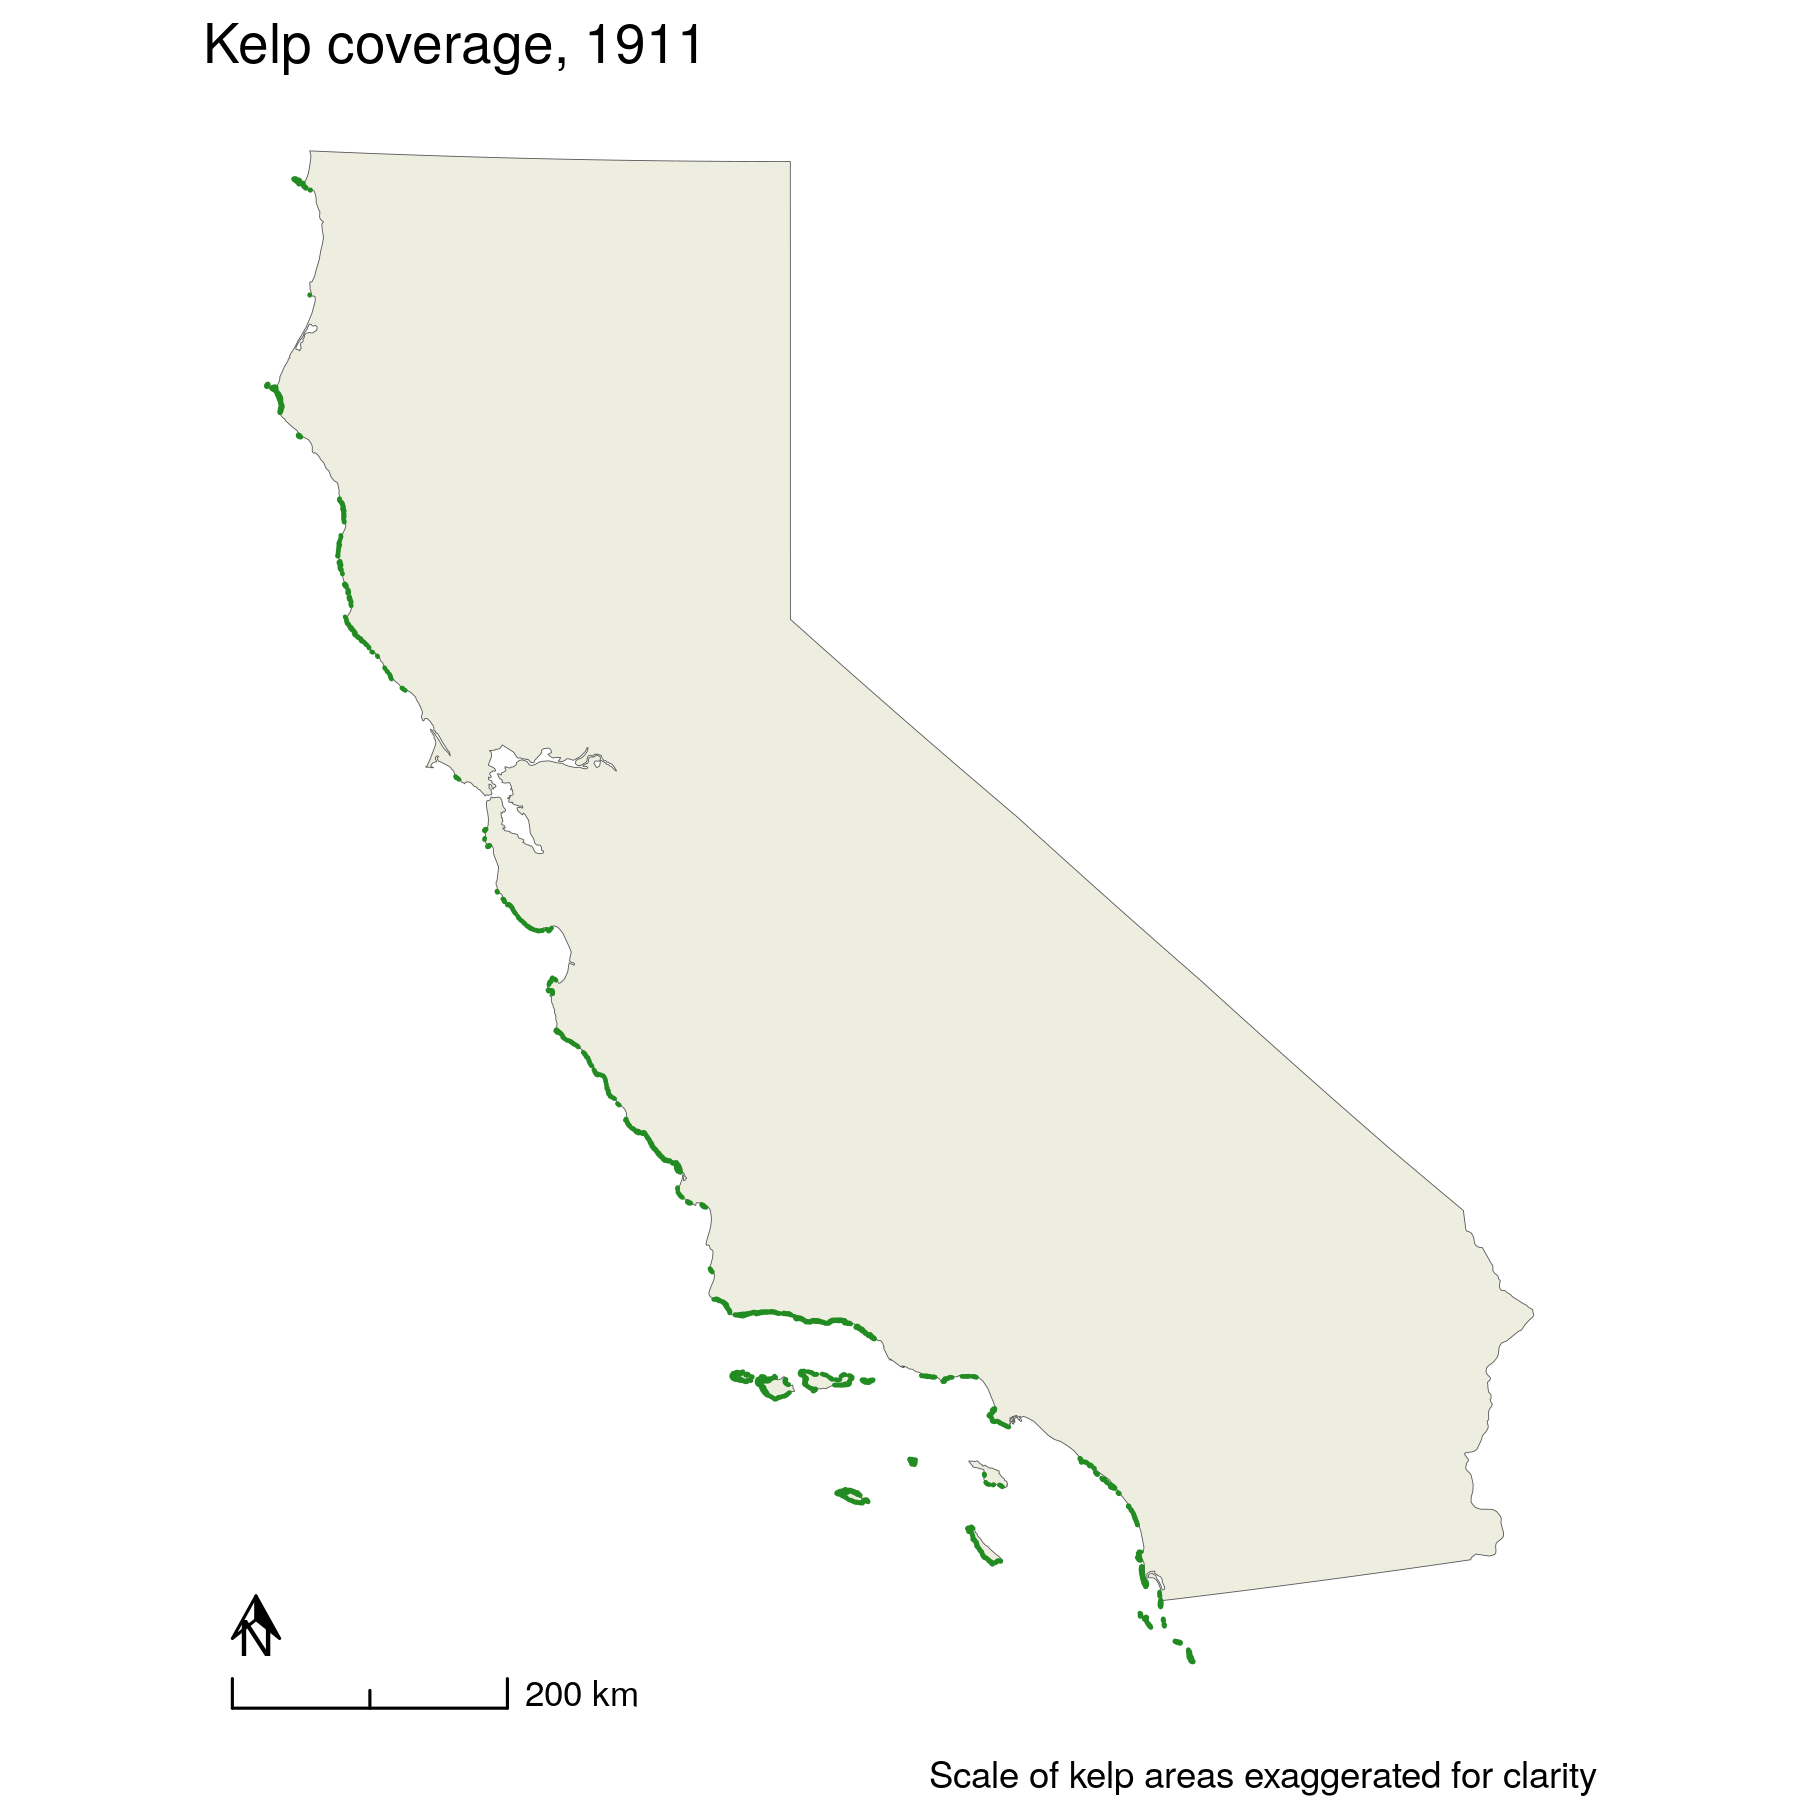
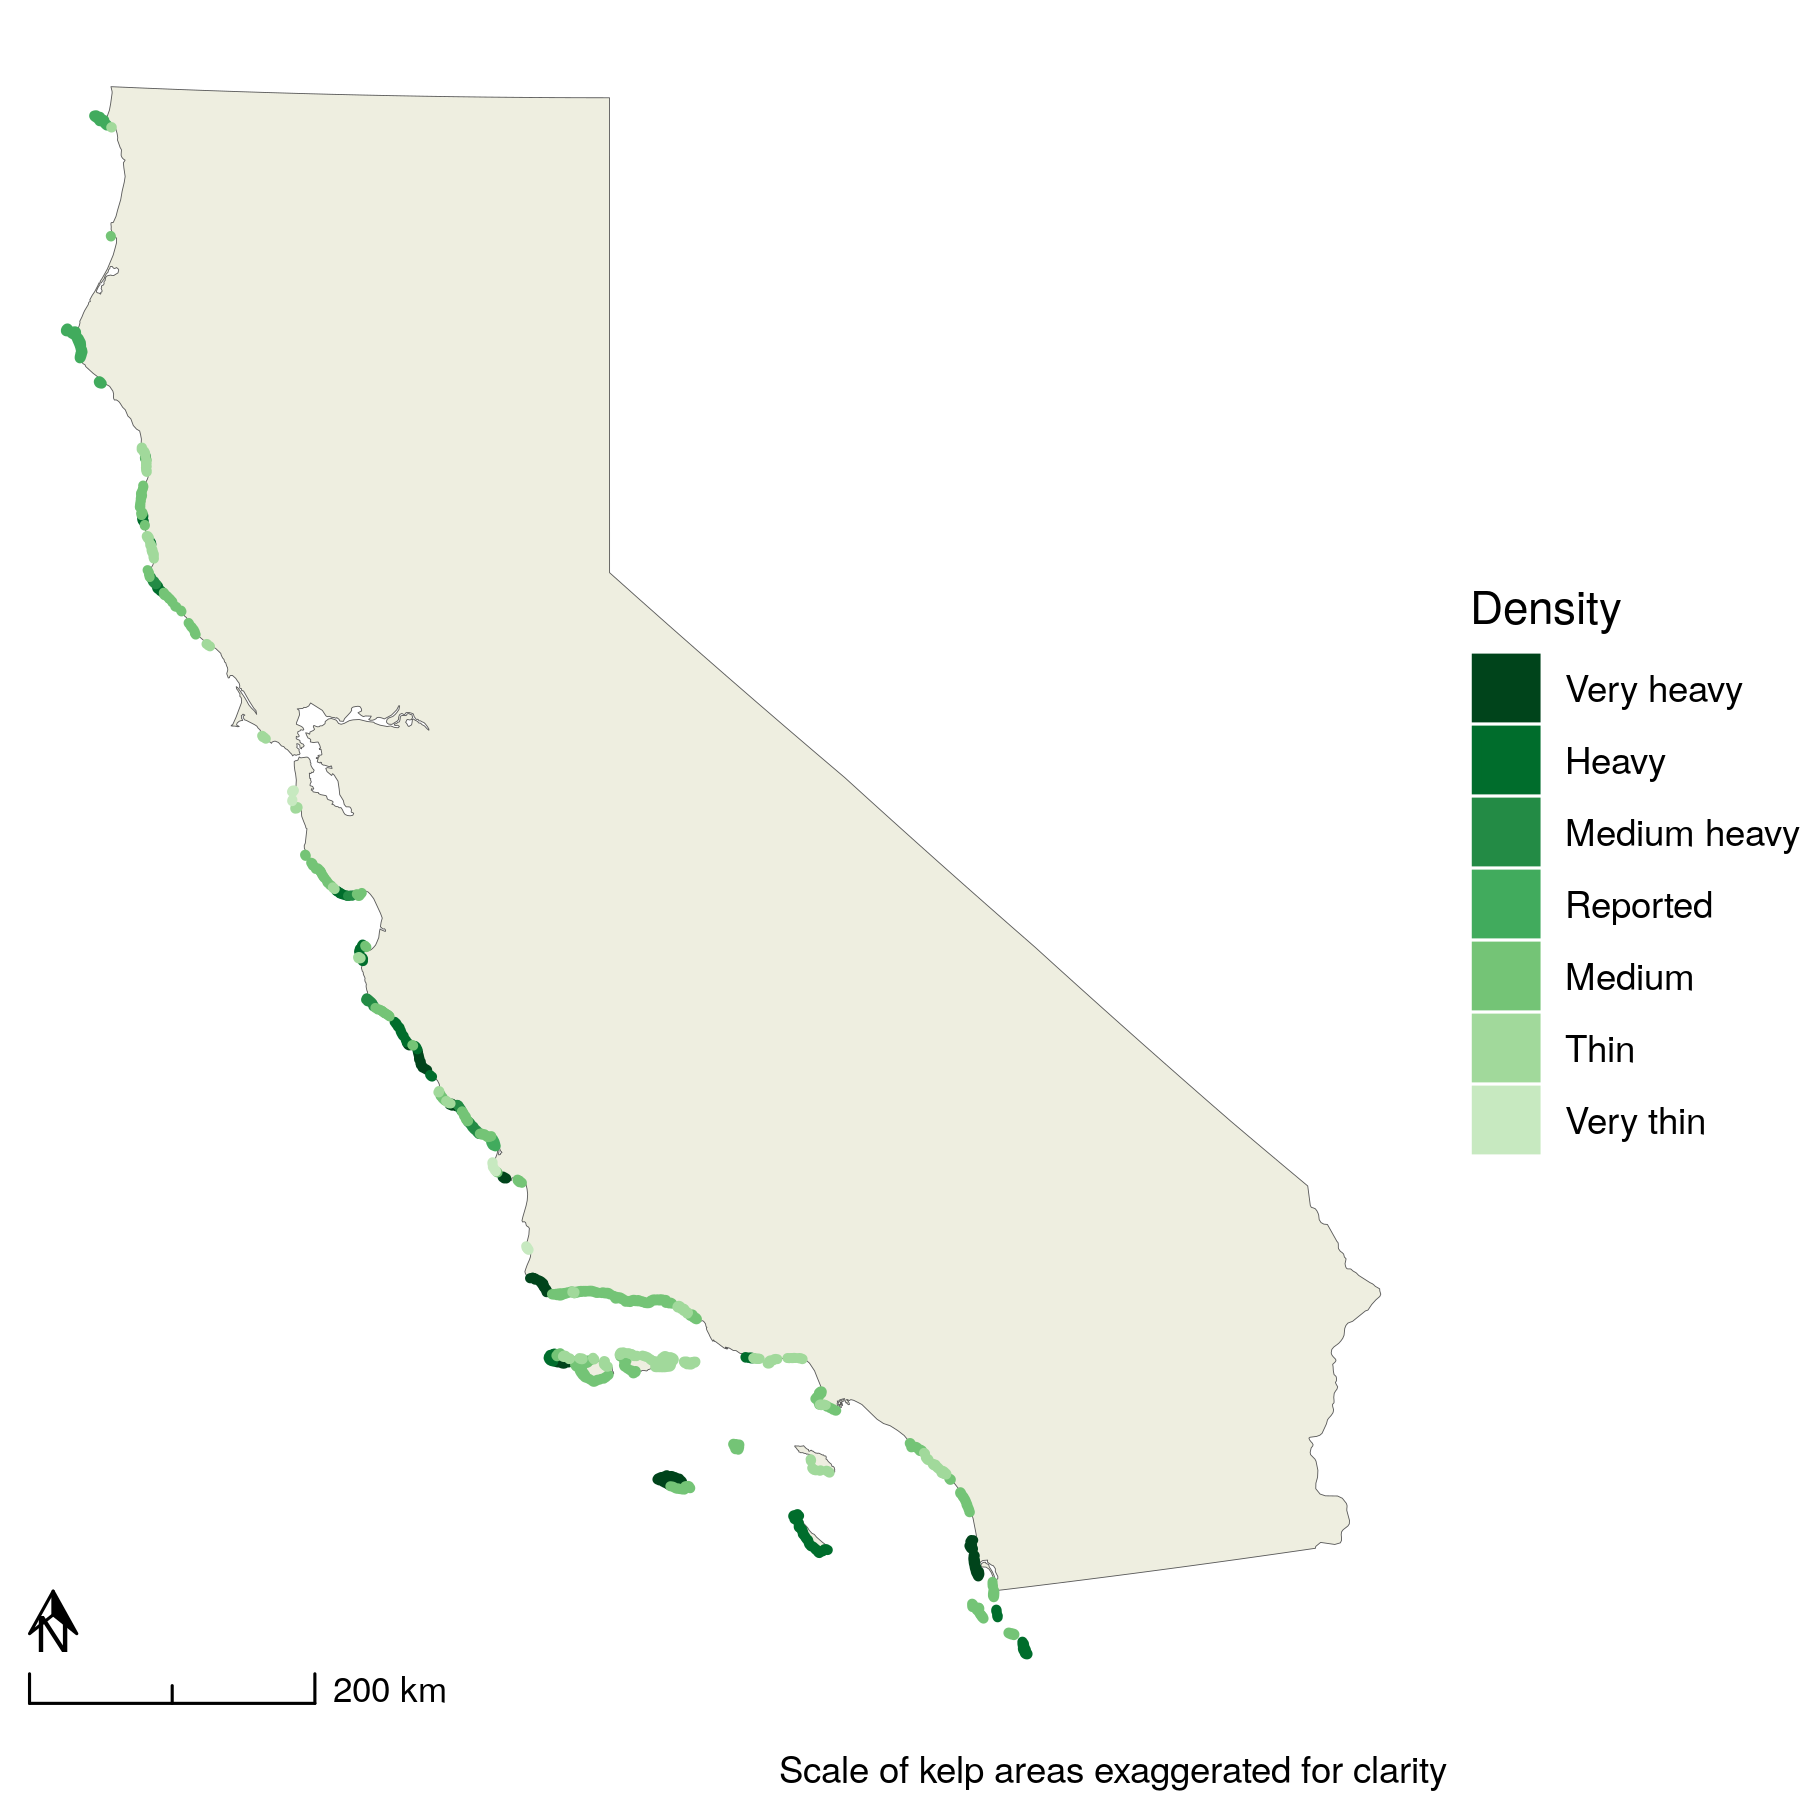
Generate weights for scaling area by density class; remake map with Reported class one tier up

diff --git a/code/02_calculate_kelp_area_changes.md b/code/02_calculate_kelp_area_changes.md
@@ -188,13 +188,12 @@ Save, so the segmentation code does not have to be run again.
 Comparisons of kelp area
 ========================
 
-Time series of total kelp area
-------------------------------
+Calculate total kelp area
+-------------------------
 
-Additionally, I need to do some wrangling of the column names in the
-CDFW data since the `area`, `length`, `class`, and `kelp_bed` (polygon
-id) variables have different names depending on the file you are looking
-at.
+I need to do some wrangling of the column names in the CDFW data since
+the `area`, `length`, `class`, and `kelp_bed` (polygon id) variables
+have different names depending on the file you are looking at.
 
     # Drop geometry and convert to data frame. Coalesce columns where needed
     kelp_current_df <- map(kelp_current_regions, st_drop_geometry) %>% 
@@ -209,6 +208,73 @@ at.
     kelp_current_df %>% map_dbl(~sum(is.na(.))) # Check for NAs
 
     kelp_historical_df <- st_drop_geometry(kelp_historical_regions)
+
+Because the methods for each data source differ (multispectral imagery
+vs. vessel-based visual surveys), the CDFW and Cameron (1915) data are
+liked biased in different directions. The CDFW data is comprised of many
+small, high-resolution polygons, whereas the historical data is
+compromised of polygons with very large areas and no holes. Therefore,
+the historical data likely overestimates the actual kelp canopy area
+since it is likely that density is heterogeneous within each polygon. We
+can adjust the area of the historical polygons based on Table XXI from
+Cameron (2015) which contains kelp weights per area for each density
+class. The values from the table are:
+
+<table>
+<thead>
+<tr class="header">
+<th>Density class</th>
+<th><em>Nereocystis</em></th>
+<th><em>Macrocystis</em></th>
+<th><em>Alaria fistulosa</em></th>
+</tr>
+</thead>
+<tbody>
+<tr class="odd">
+<td>Very thin</td>
+<td>55</td>
+<td>22</td>
+<td>2.8</td>
+</tr>
+<tr class="even">
+<td>Thin</td>
+<td>56-111</td>
+<td>23-34</td>
+<td>2.9-5.2</td>
+</tr>
+<tr class="odd">
+<td>Medium</td>
+<td>112-167</td>
+<td>35-44</td>
+<td>5.5-8.2</td>
+</tr>
+<tr class="even">
+<td>Medium heavy</td>
+<td>168-224</td>
+<td>45-54</td>
+<td>8.3-10.9</td>
+</tr>
+<tr class="odd">
+<td>Heavy</td>
+<td>225-280</td>
+<td>55-64</td>
+<td>11-13.6</td>
+</tr>
+<tr class="even">
+<td>Very Heavy</td>
+<td>281</td>
+<td>65</td>
+<td>13.7</td>
+</tr>
+</tbody>
+</table>
+
+For the purposes of this work, we will only consider *Nereocystis* and
+*Macrocystis*, since *A. fistulosa* is not distributed in California (is
+this right). Also of note is that there is another class recorded in
+Cameron (2015) without any density information, named “Reported.”
+
+    # The data
 
 Next I’ll filter the CDFW survey data to only the kelp marked as
 “canopy” (vs. “subsurface”), and calculate total canopy area per year
@@ -241,6 +307,11 @@ website (linked above).
       relocate(complete_survey, .after = last_col()) %>% 
       relocate(source, .after = last_col())
 
+    # Add total to the long version
+    area_ts <- area_ts_wide %>% 
+      pivot_longer(cols = c("CA1", "CA2", "CA3", "total"), names_to = "region", values_to = "total_area_m2") %>% 
+      select(year, region, total_area_m2, complete_survey, source)
+
 Save the tables:
 
     write_csv(area_ts, here("output", "annual_kelp_area.csv"))
@@ -261,7 +332,7 @@ Save the tables:
 Plot a quick time series.
 
     # Plot
-    ggplot(data = area_ts, aes(x = year, y = total_area_m2/1e6, fill = complete_survey)) +
+    ggplot(data = filter(area_ts, region == "total"), aes(x = year, y = total_area_m2/1e6, fill = complete_survey)) +
       geom_col() +
       scale_x_continuous(breaks = seq(1910, 2020, by = 10)) +
       scale_y_continuous(expand = c(0,0)) +
@@ -275,10 +346,80 @@ Plot a quick time series.
 
     ggsave(here("output", "fig_ca_kelp_time_series.png"), height = 6, width = 9, dpi = 300)
 
+Calculate area changes
+----------------------
+
+What is the difference between the area of kelp coverage in 1911 and
+that of the most recent year(s) of data?
+
+    # Delta
+    (sum(kelp_historical_df$Shape_Area) -
+    sum(kelp_current_df$area[kelp_current_df$year == 2016])
+    ) / 1e6 # sq. km
+
+    # %
+    (sum(kelp_historical_df$Shape_Area) -
+    sum(kelp_current_df$area[kelp_current_df$year == 2016])
+    ) / sum(kelp_historical_df$Shape_Area) * 100
+
+Plot changes between 1911 and 2016
+----------------------------------
+
+A few different plot options:
+
+    region_pal <- "wesanderson::Darjeeling1"
+    year_pal <- calecopal::cal_palette("sbchannel", n = 10, type = "continuous")
+    labs <- c("CA1" = "Northern", "CA2" = "Central", "CA3" = "Southern", "total" = "Total")
+
+    # Dodged bar plot of area per region, all years
+    area_ts %>% 
+      filter(complete_survey == TRUE) %>% 
+      ggplot(aes(x = region, y = total_area_m2/1e6, fill = as.factor(year))) +
+      geom_col(position = "dodge") +
+      labs(y = "Kelp canopy area (sq. km)",
+           fill = "Year",
+           x = NULL) +
+      scale_fill_manual(values = year_pal) +
+      scale_x_discrete(labels = labs) +
+      ggpubr::theme_pubr() +
+      theme(legend.position = "right")
+
+    # Dodged bar plot of area in 2016 vs. 1911 per region
+    area_ts %>% 
+      filter(year == 1911 | year == 2016) %>% 
+      ggplot(aes(x = region, y = total_area_m2/1e6, fill = as.factor(year))) +
+      geom_col(position = "dodge") +
+      labs(y = "Kelp canopy area (sq. km)",
+           fill = "Year",
+           x = NULL) +
+      scale_fill_manual(values = c("1911" = "black", "2016" = "gray40")) +
+      scale_x_discrete(labels = labs) +
+      ggpubr::theme_pubr() +
+      theme(legend.position = "right")
+
+    # % change from 1911 levels per year
+    area_ts %>% 
+      filter(complete_survey == TRUE) %>% 
+      group_by(region) %>% 
+      mutate(prop_loss = (total_area_m2 - total_area_m2[year == 1911])/total_area_m2[year == 1911]) %>% 
+      ungroup() %>% 
+      filter(year != 1911) %>% 
+      ggplot(aes(x = year, y = prop_loss, color = region)) +
+      geom_point() +
+      geom_line() +
+      geom_hline(yintercept = 0, linetype = "dashed", color = "gray80") +
+      scale_y_continuous(labels = scales::percent_format(accuracy = 1)) +
+      scale_color_manual(values = c(paletteer_d(region_pal)[1:3], "black"), labels = labs) +
+      labs(x = "Year",
+           y = "Percentage kelp canopy area lost",
+           color = NULL) +
+      ggpubr::theme_pubr() +
+      theme(legend.position = "right")
+
 Plot maps of historical vs. current coverage
 --------------------------------------------
 
-First make a map of overall
+First make a map of the overall coastline.
 
     # First do the same filtering of subsurface kelp, but on the polygon. 
     # Since I think we'll be primarily showing the 1911 data vs. the 2016,
@@ -291,9 +432,6 @@ First make a map of overall
 
     # Full coastline
 
-    pal <- "wesanderson::Darjeeling1"
-    labs <- c("CA1" = "Northern", "CA2" = "Central", "CA3" = "Southern")
-
     (a <- ggplot() +
         geom_sf(data = ca_boundary, size = 0.1, fill = "ivory2") +
         geom_sf(data = kelp_historical_regions,  aes(fill = region_cod, color = region_cod), size = 0.7) +
@@ -302,8 +440,8 @@ First make a map of overall
         labs(subtitle = "1911",
              fill = NULL, 
              color = NULL) +
-        paletteer::scale_fill_paletteer_d(pal, labels = labs) +
-        paletteer::scale_color_paletteer_d(pal, labels = labs) +
+        scale_fill_paletteer_d(region_pal,  labels = labs) +
+        scale_color_paletteer_d(region_pal,  labels = labs) +
         theme_void()
     )
 
@@ -313,8 +451,8 @@ First make a map of overall
         labs(subtitle = "2016",
              fill = NULL, 
              color = NULL) +
-        paletteer::scale_fill_paletteer_d(pal, labels = labs) +
-        paletteer::scale_color_paletteer_d(pal, labels = labs) +
+        scale_fill_paletteer_d(region_pal,  labels = labs) +
+        scale_color_paletteer_d(region_pal,  labels = labs) +
         theme_void()
 
     ggpubr::ggarrange(a, b, 
@@ -325,6 +463,8 @@ First make a map of overall
                       legend = "right")
 
     ggsave(here("output", "fig_kelp_map_1911_vs_2016.png"), height = 6, width = 8, dpi = 300)
+
+Next, make two “highlight” maps of sites in Northern and Southern CA.
 
     # Northern CA
 
@@ -363,25 +503,6 @@ First make a map of overall
       st_transform(st_crs(kelp_historical))
     kelp_2016 %>% 
       st_crop(c("xmin" = -120.260510, "ymin" = 33.875765, "xmax" = -119.944782, "ymax" = 34.053141))
-
-Calculate area changes
-----------------------
-
-Overall
--------
-
-What is the difference between the area of kelp coverage in 1911 and
-that of the most recent year(s) of data?
-
-    # Delta
-    (sum(kelp_historical_df$Shape_Area) -
-    sum(kelp_current_df$area[kelp_current_df$year == 2016])
-    ) / 1e6 # sq. km
-
-    # %
-    (sum(kelp_historical_df$Shape_Area) -
-    sum(kelp_current_df$area[kelp_current_df$year == 2016])
-    ) / sum(kelp_historical_df$Shape_Area) * 100
 
 Other investigations
 ====================
